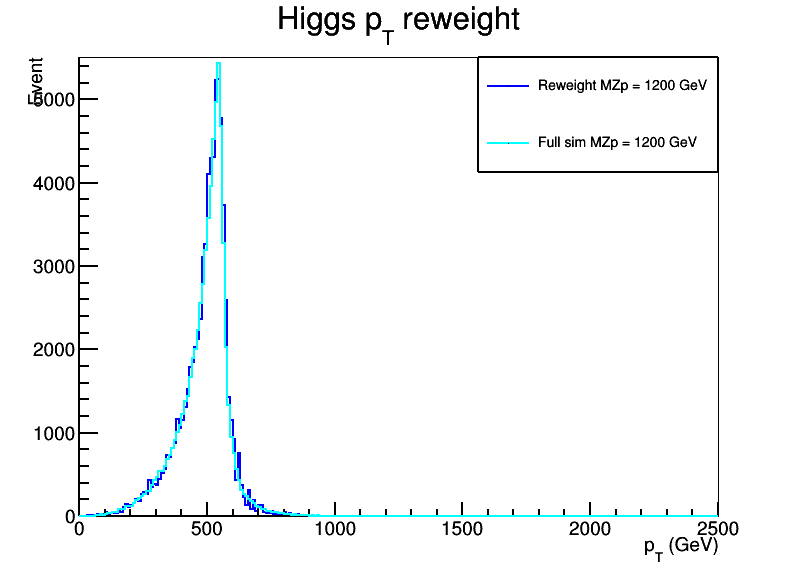
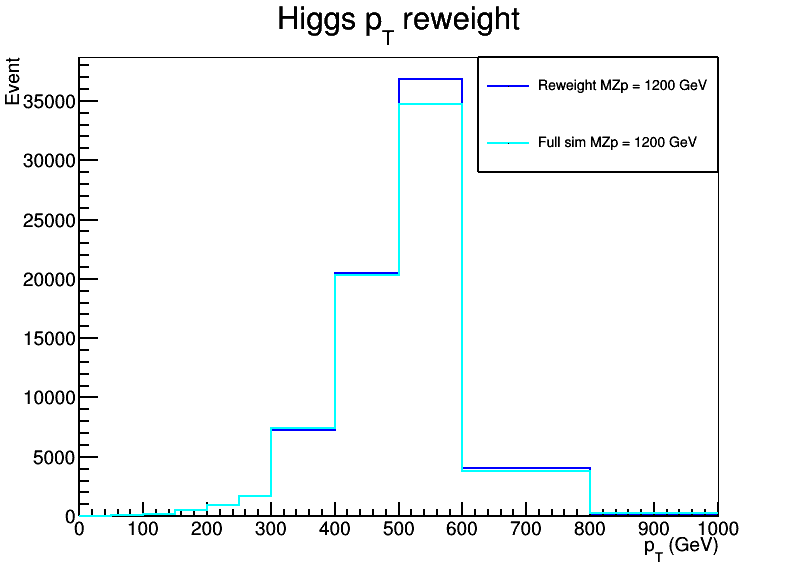
rebin the weight figure

diff --git a/reweight_rebin.C b/reweight_rebin.C
@@ -39,36 +39,33 @@ void reweight_rebin() {
     //c1->SetLogy();
     TFile *f_mzp1000_full = TFile::Open("output/ZprimeToA0hToA0chichihbb_2HDM_MZp-1000_MA0-300_13TeV-madgraph.root");
     TFile *f_mzp1200_full = TFile::Open("output/ZprimeToA0hToA0chichihbb_2HDM_MZp-1200_MA0-300_13TeV-madgraph.root");
-    //TFile *f_mzp1200_full = TFile::Open("output/ZprimeToA0hToA0chichihbb_2HDM_MZp-1200_MA0-300_13TeV-madgraph.root");
-    Int_t binWidth = 100;
-    Float_t xRange = 2500.;
-    //TH1F *hist = new TH1F("hpt","hpt",TMath::CeilNint(xRange/binWidth),binWidth);
-    float ptbins[] = {0,50,100,150,200,250,300,400,500,600,800,1000};
-    TH1F *h_mzp1200ma0300_weight = new TH1F("hpt","hpt",11,ptbins);
     TH1F *h_mzp1000ma0300_full = (TH1F*)f_mzp1000_full->Get("Higgs_pt");
     TH1F *h_mzp1200ma0300_full = (TH1F*)f_mzp1200_full->Get("Higgs_pt");
     
-    h_mzp1200ma0300_weight = (TH1F*)f_mzp1000_full->Get("Higgs_pt");
+    const Double_t ptbins[] = {0,50,100,150,200,250,300,400,500,600,800,1000};
+    const Int_t nbins1=sizeof(ptbins)/sizeof(ptbins[0])-1; 
+    TH1F *h_mzp1200ma0300_weight = (TH1F*)h_mzp1000ma0300_full->Clone(); 
     h_mzp1200ma0300_weight->Multiply(weight);
-    
-    h_mzp1200ma0300_weight->SetXTitle("p_{T} (GeV)");
-    h_mzp1200ma0300_weight->SetYTitle("Event");
-    h_mzp1000ma0300_full->SetLineWidth(2);
-    h_mzp1200ma0300_weight->SetLineWidth(2);
-    h_mzp1200ma0300_full->SetLineWidth(2);
+    //h_mzp1200ma0300_weight->Rebin(nbins1,ptbins);
 
-    h_mzp1000ma0300_full->SetLineColor(2);
-    h_mzp1200ma0300_weight->SetLineColor(4);
-    h_mzp1200ma0300_full->SetLineColor(7);
+    TH1F *h_mzp1200ma0300_weight_rebin = (TH1F*)(h_mzp1200ma0300_weight->Rebin(11,"h_mzp1200ma0300_weight_rebin",ptbins));
+    TH1F *h_mzp1200ma0300_full_rebin = (TH1F*)(h_mzp1200ma0300_full->Rebin(11,"h_mzp1200ma0300_full_rebin",ptbins));
+     
+    h_mzp1200ma0300_weight_rebin->SetXTitle("p_{T} (GeV)");
+    h_mzp1200ma0300_weight_rebin->SetYTitle("Event");
+    h_mzp1200ma0300_weight_rebin->SetLineWidth(2);
+    h_mzp1200ma0300_full_rebin->SetLineWidth(2);
+    h_mzp1200ma0300_weight_rebin->SetLineColor(4);
+    h_mzp1200ma0300_full_rebin->SetLineColor(7);
     
-    h_mzp1200ma0300_weight->SetTitle("Higgs p_{T} reweight");
-    h_mzp1200ma0300_weight->Draw();
-    //h_mzp1000ma0300_full->Draw("same");
-    h_mzp1200ma0300_full->Draw("same");
+    h_mzp1200ma0300_weight_rebin->SetTitle("Higgs p_{T} reweight");
+    h_mzp1200ma0300_weight_rebin->GetYaxis()->SetTitleOffset(1.5);
+    h_mzp1200ma0300_weight_rebin->Draw();
+    h_mzp1200ma0300_full_rebin->Draw("same");
+    
     leg->Clear(); 
-    //leg->AddEntry(h_mzp1000ma0300_full,"Full MZp = 1000 GeV");
-    leg->AddEntry(h_mzp1200ma0300_weight,"Reweight MZp = 1200 GeV");
-    leg->AddEntry(h_mzp1200ma0300_full,"Full sim MZp = 1200 GeV");
+    leg->AddEntry(h_mzp1200ma0300_weight_rebin,"Reweight MZp = 1200 GeV");
+    leg->AddEntry(h_mzp1200ma0300_full_rebin,"Full sim MZp = 1200 GeV");
     leg->Draw();
     c1->SaveAs("output/ratio_rebin.png");
     c1->Print("output/ratio_rebin.pdf");
